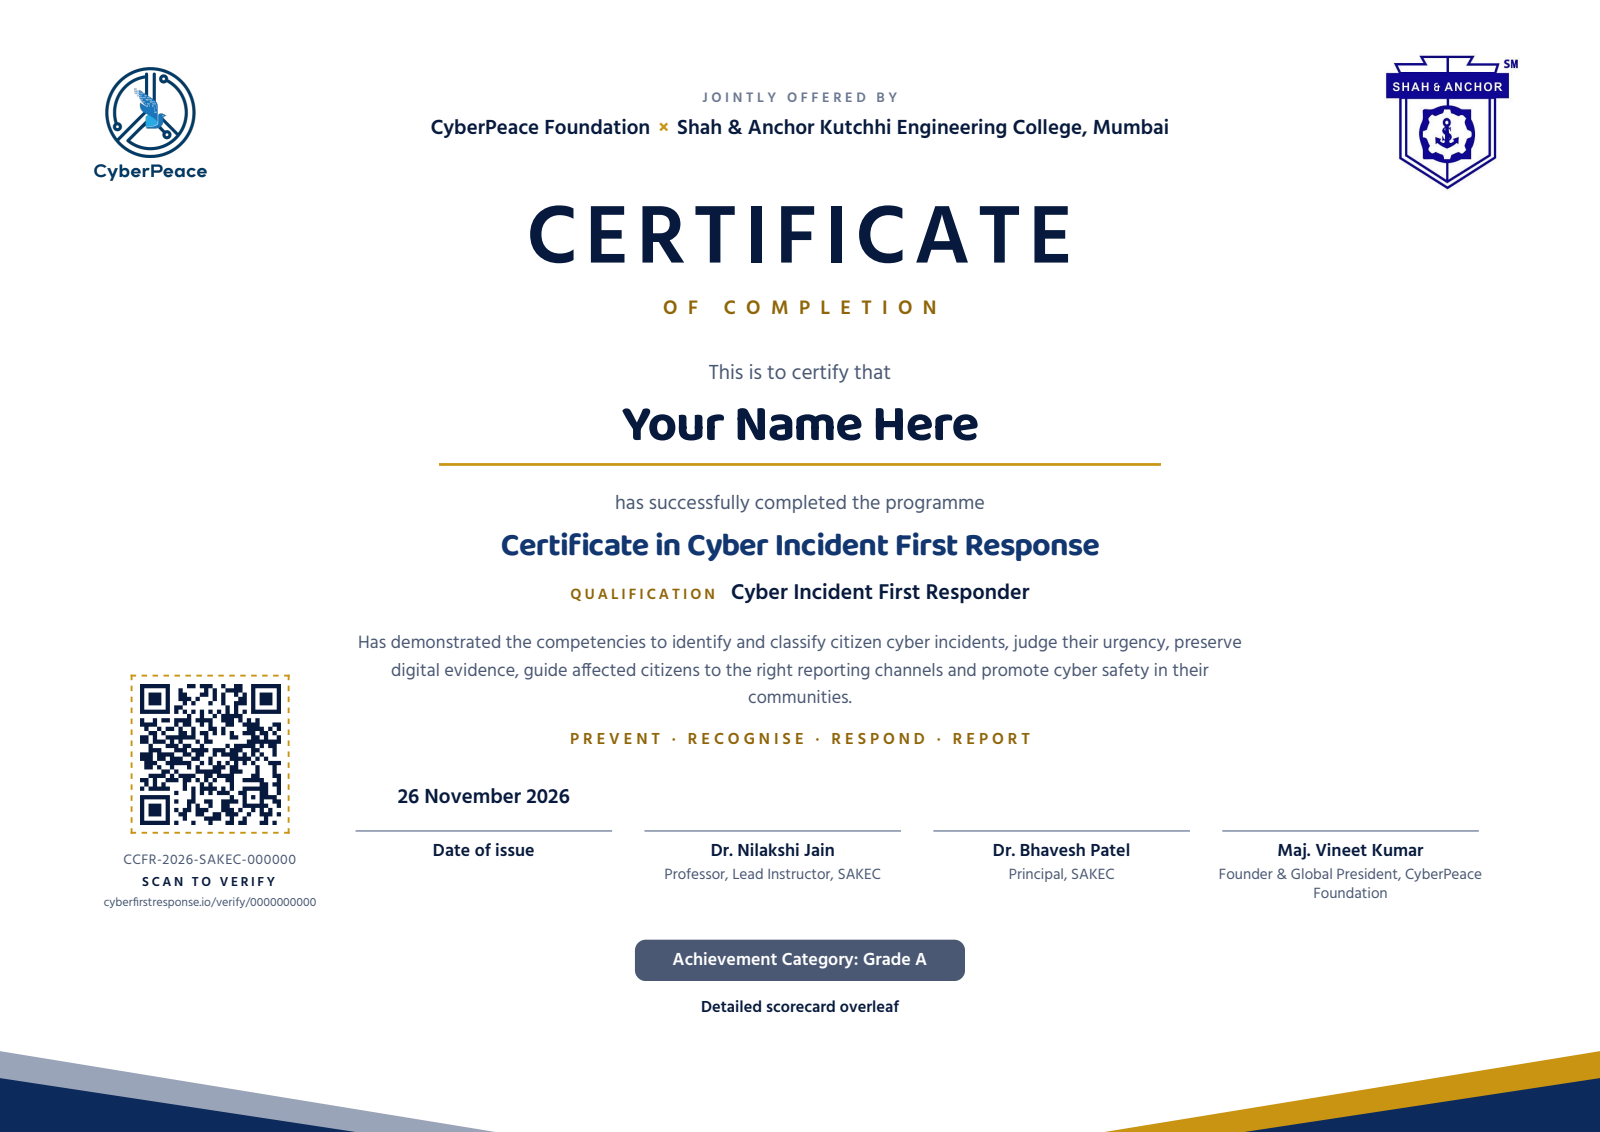
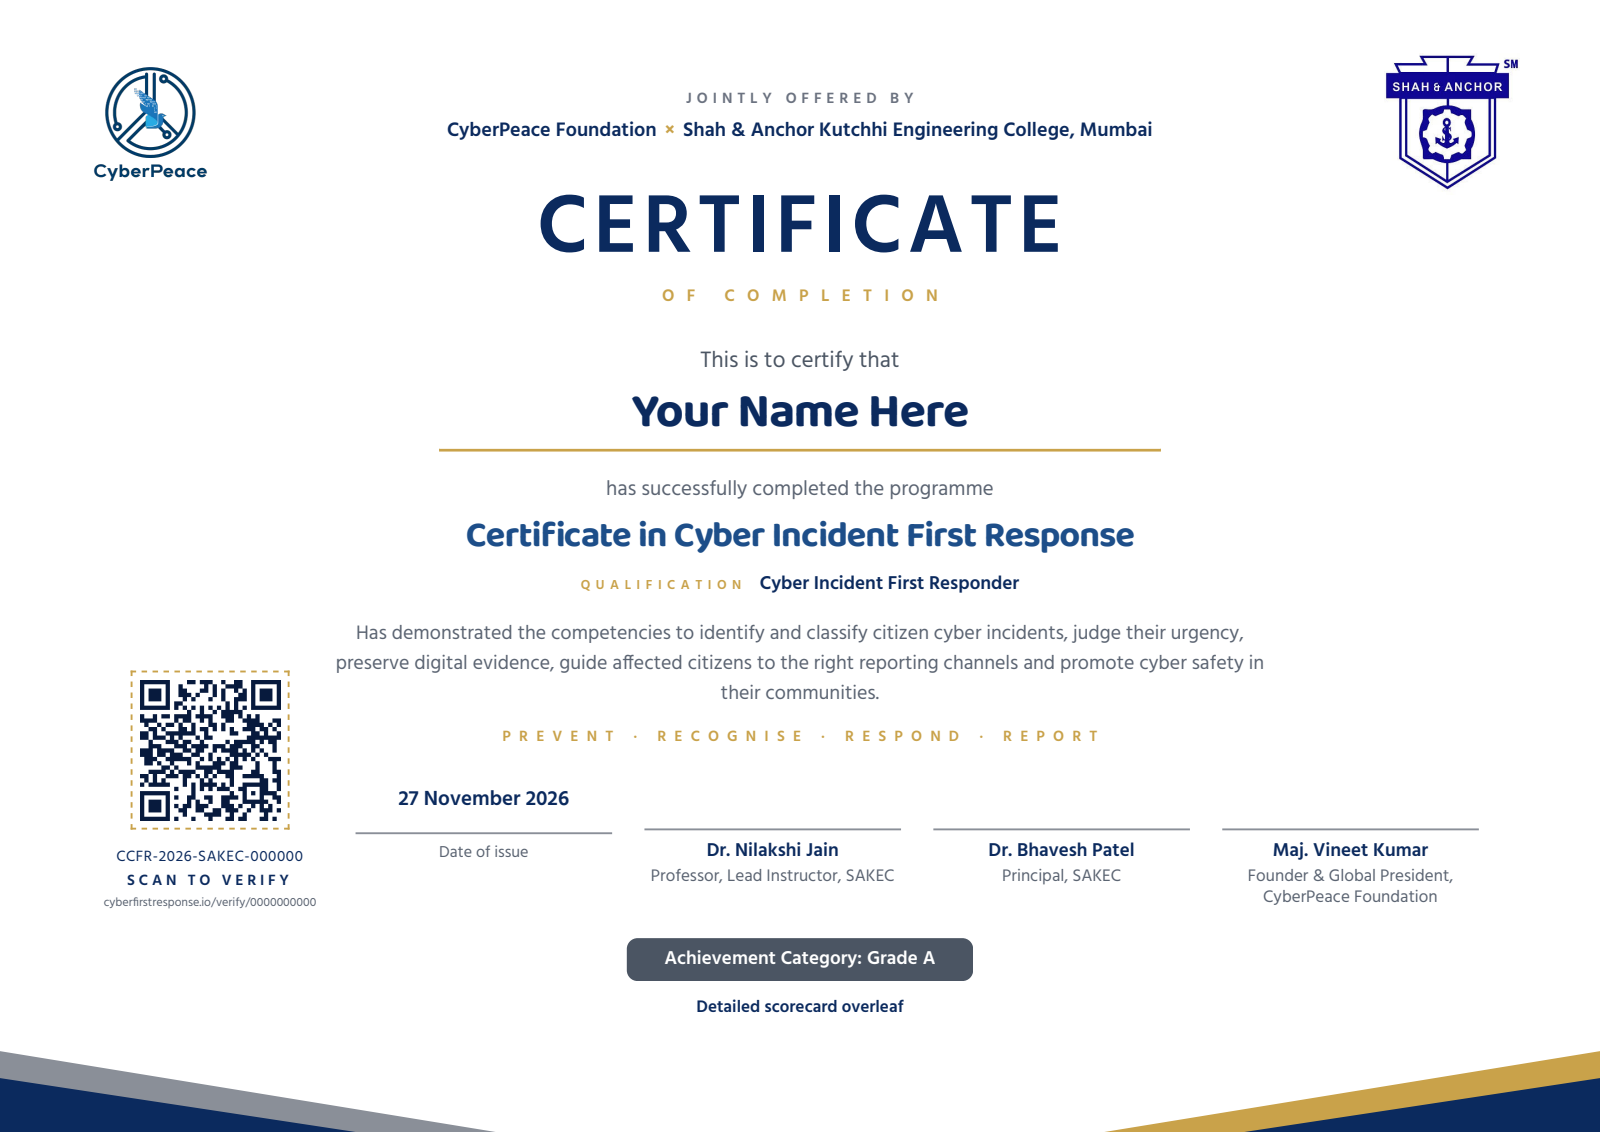
Apply the designer's type and colour spec
From the Canva font sheet: sizes, weights, letter spacing and the
certificate's own palette (navy #0B2A5E, blue #1D4E89, gold #C9A24A, slate
#4B5563, greys #5B6472 and #6B7280). That palette is deliberately not the
site tokens; the certificate is its own artefact.

The two headline sizes are the exception. The spec sets them in Bebas Neue,
which we do not bundle, and Bebas is far narrower than Hind: at the spec's
84pt the word would run off the page, so the headline keeps the size that
matches the artwork's printed width.

Growing the body type pushed the scorecard's footnote into the pillars
line at the foot of page 2. Reclaimed the space from the header, the table
padding and the section gaps rather than shrinking the type back.

diff --git a/templates/certificates/pdf/certificate.html b/templates/certificates/pdf/certificate.html
@@ -25,10 +25,12 @@ Rules for whoever edits it:
   @font-face { font-family: "Hind"; src: url("{{ asset }}font/hind-latin-600.woff2"); font-weight: 600; }
   @font-face { font-family: "Hind"; src: url("{{ asset }}font/hind-latin-600.woff2"); font-weight: 700; }
 
-  /* Colours are the site tokens (static/css/tokens.css): navy, mustard, ink-muted, mustard-deep. */
+  /* Colours and sizes are the designer's certificate spec, which is deliberately its own palette
+     and not the site tokens in static/css/tokens.css: navy #0B2A5E, blue #1D4E89, gold #C9A24A,
+     slate #4B5563, grey #5B6472 / #6B7280. */
   @page { size: A4 landscape; margin: 0; }
   html, body { margin: 0; padding: 0; }
-  body { font-family: "Hind", sans-serif; color: #071a3d; font-size: 10.5pt; line-height: 1.35; }
+  body { font-family: "Hind", sans-serif; color: #0B2A5E; font-size: 10.5pt; line-height: 1.35; }
   p { margin: 0; }
   .sheet { position: relative; width: 297mm; height: 210mm; overflow: hidden; background: #fff; }
   .display { font-family: "Baloo 2", sans-serif; }
@@ -38,75 +40,81 @@ Rules for whoever edits it:
   .jointly img { position: absolute; top: 0; height: 26mm; width: auto; }
   .jointly .l { left: 0; }
   .jointly .r { right: 0; }
-  .jointly .by { margin-top: 6.5mm; color: #6b7890; font-size: 7.4pt; font-weight: 600; letter-spacing: .26em; padding-left: .26em; }
-  .jointly .who { margin-top: 1.2mm; font-size: 11pt; font-weight: 700; }
-  .jointly .who .x { color: #c99412; margin: 0 1.5mm; }
+  .jointly .by { margin-top: 6.5mm; color: #6B7280; font-size: 8pt; font-weight: 700; letter-spacing: .325em; padding-left: .325em; }
+  .jointly .who { margin-top: 1.4mm; font-size: 10.5pt; font-weight: 700; }
+  .jointly .who .x { color: #C9A24A; margin: 0 1.5mm; }
 
-  .c-main { position: absolute; top: 37mm; left: 20mm; right: 20mm; text-align: center; }
-  .c-main h1 { margin: 0; font-size: 44pt; font-weight: 700; letter-spacing: .09em; line-height: 1; padding-left: .09em; }
-  .c-main .of { margin-top: 2.2mm; color: #8f6508; font-size: 10.5pt; font-weight: 600; letter-spacing: .52em; padding-left: .52em; }
-  .c-main .certify { margin-top: 7mm; color: #4a5873; font-size: 11pt; }
+  .c-main { position: absolute; top: 35mm; left: 20mm; right: 20mm; text-align: center; }
+  /* The spec sets this at 84pt in Bebas Neue. Bebas is far narrower than Hind, so at 84pt here the
+     word would run off the page: this is the size that matches the artwork's printed width. */
+  .c-main h1 { margin: 0; font-size: 44pt; font-weight: 700; letter-spacing: .065em; line-height: 1; padding-left: .065em; }
+  .c-main .of { margin-top: 2.4mm; color: #C9A24A; font-size: 9pt; font-weight: 700; letter-spacing: .722em; padding-left: .722em; }
+  .c-main .certify { margin-top: 7mm; color: #4B5563; font-size: 12pt; }
   .c-main .name { display: inline-block; margin-top: 1.5mm; padding: 0 8mm 1.5mm; min-width: 118mm;
-                  font-size: 27pt; font-weight: 700; line-height: 1.15; border-bottom: .5mm solid #c99412; }
-  .c-main .name--long { font-size: 19pt; }
-  .c-main .lead { margin-top: 4.5mm; color: #4a5873; font-size: 10.5pt; }
-  .c-main .title { margin-top: 2mm; color: #12366f; font-size: 17pt; font-weight: 700; line-height: 1.15; }
-  .c-main .qual { margin-top: 2.6mm; font-size: 11.5pt; font-weight: 700; }
-  .c-main .qual .label { color: #8f6508; font-size: 8pt; font-weight: 600; letter-spacing: .2em; margin-right: 2.4mm; }
-  .c-main .about { margin: 4mm auto 0; max-width: 168mm; color: #4a5873; font-size: 9.6pt; line-height: 1.5; }
-  .c-main .pillars { margin-top: 3mm; color: #8f6508; font-size: 8.6pt; font-weight: 600; letter-spacing: .24em; padding-left: .24em; }
+                  font-size: 25.5pt; font-weight: 700; line-height: 1.15; border-bottom: .5mm solid #C9A24A; }
+  .c-main .name--long { font-size: 18pt; }
+  .c-main .lead { margin-top: 4.5mm; color: #5B6472; font-size: 11pt; }
+  .c-main .title { margin-top: 2mm; color: #1D4E89; font-size: 19pt; font-weight: 700; line-height: 1.15; }
+  .c-main .qual { margin-top: 2.8mm; font-size: 10pt; font-weight: 700; }
+  .c-main .qual .label { color: #C9A24A; font-size: 7pt; font-weight: 700; letter-spacing: .414em; margin-right: 2.4mm; }
+  .c-main .about { margin: 4mm auto 0; max-width: 176mm; color: #5B6472; font-size: 10.5pt; line-height: 1.5; }
+  .c-main .pillars { margin-top: 3.4mm; color: #C9A24A; font-size: 8pt; font-weight: 700; letter-spacing: .5375em; padding-left: .5375em; }
 
   .c-verify { position: absolute; left: 18mm; bottom: 41mm; width: 42mm; text-align: center; }
-  .c-verify img { width: 26mm; height: 26mm; padding: 1.4mm; border: .35mm dashed #c99412; }
-  .c-verify .cid { margin-top: 1.6mm; color: #4a5873; font-size: 7.4pt; letter-spacing: .04em; }
-  .c-verify .lbl { margin-top: .7mm; font-size: 7pt; font-weight: 700; letter-spacing: .2em; }
+  .c-verify img { width: 26mm; height: 26mm; padding: 1.4mm; border: .35mm dashed #C9A24A; }
+  .c-verify .cid { margin-top: 1.6mm; font-size: 8pt; letter-spacing: .04em; }
+  .c-verify .lbl { margin-top: .7mm; font-size: 8pt; font-weight: 700; letter-spacing: .25em; }
   /* The verify code, not just the certificate number: a number never normalises to a code
      (apps/certificates/codes.py), so without this line the page can only be verified by scanning. */
-  .c-verify .url { margin-top: .8mm; color: #4a5873; font-size: 6.4pt; line-height: 1.25; overflow-wrap: anywhere; }
+  .c-verify .url { margin-top: .8mm; color: #5B6472; font-size: 6.4pt; line-height: 1.25; overflow-wrap: anywhere; }
 
   .c-bottom { position: absolute; left: 63mm; right: 16mm; bottom: 41mm; }
   .c-col { display: inline-block; vertical-align: bottom; width: 24.6%; text-align: center; }
   .c-col .ink { height: 12mm; }
   .c-col .ink img { max-height: 12mm; max-width: 40mm; }
   .c-col .issued { height: 12mm; font-size: 11pt; font-weight: 700; line-height: 12mm; }
-  .c-col .rule { margin: 0 3mm; border-top: .35mm solid #9aa4b8; }
-  .c-col .who { margin-top: 1.4mm; font-size: 9.4pt; font-weight: 700; }
+  .c-col .rule { margin: 0 3mm; border-top: .35mm solid #8A8F98; }
+  .c-col .who { margin-top: 1.4mm; font-size: 10pt; font-weight: 700; }
+  .c-col .who--date { font-size: 8.5pt; font-weight: 400; color: #5B6472; }
   /* Fixed height so a role that wraps to two lines (Kumar's) keeps every column the same height:
      the columns are bottom-aligned, so an uneven one would lift its own signature rule. */
-  .c-col .role { margin-top: .4mm; height: 8.4mm; color: #4a5873; font-size: 8pt; line-height: 1.25; }
+  .c-col .role { margin-top: .4mm; height: 8.4mm; color: #5B6472; font-size: 9pt; line-height: 1.25; }
 
   .cat-pill { position: absolute; left: 0; right: 0; bottom: 28mm; text-align: center; }
-  .cat-pill span { display: inline-block; padding: 1.6mm 7mm; border-radius: 2mm; background: #4a5873;
-                   color: #fff; font-size: 9.4pt; font-weight: 700; }
-  .overleaf { position: absolute; left: 0; right: 0; bottom: 21mm; text-align: center; font-size: 8.6pt; font-weight: 700; }
+  .cat-pill span { display: inline-block; padding: 1.6mm 7mm; border-radius: 2mm; background: #4B5563;
+                   color: #fff; font-size: 10pt; font-weight: 700; }
+  .overleaf { position: absolute; left: 0; right: 0; bottom: 21mm; text-align: center; font-size: 9pt; font-weight: 700; }
   .band { position: absolute; left: 0; right: 0; bottom: 0; width: 297mm; height: 18mm; }
 
   /* --- Page 2: the detailed scorecard. Totals only: per-module marks stay off the certificate. */
   .sheet--score { page-break-before: always; }
-  .sc { position: absolute; top: 13mm; left: 18mm; right: 18mm; }
-  .sc-head { position: relative; height: 26mm; text-align: center; }
-  .sc-head img { position: absolute; top: 0; height: 26mm; width: auto; }
+  .sc { position: absolute; top: 10mm; left: 18mm; right: 18mm; }
+  .sc-head { position: relative; height: 24mm; text-align: center; }
+  .sc-head img { position: absolute; top: 0; height: 24mm; width: auto; }
   .sc-head .l { left: 0; }
   .sc-head .r { right: 0; }
-  .sc-head h2 { margin: 4mm 0 0; font-size: 19pt; font-weight: 800; letter-spacing: .12em; padding-left: .12em; }
-  .sc-head .sub { margin-top: .8mm; color: #4a5873; font-size: 9.5pt; }
-  .sc-rule { margin: 1.5mm 0 4mm; border-top: .45mm solid #c99412; }
-  .sc-h3 { margin: 0 0 2mm; color: #12366f; font-size: 8.6pt; font-weight: 700; letter-spacing: .16em; text-transform: uppercase; }
+  /* As with page 1's headline, the spec's 28pt assumes Bebas Neue; this matches its printed width. */
+  .sc-head h2 { margin: 4mm 0 0; font-size: 19pt; font-weight: 800; letter-spacing: .054em; padding-left: .054em; }
+  .sc-head .sub { margin-top: 1mm; color: #4B5563; font-size: 10pt; font-weight: 700; }
+  .sc-rule { margin: 1.5mm 0 4.5mm; border-top: .45mm solid #C9A24A; }
+  .sc-h3 { margin: 0 0 2.4mm; color: #1D4E89; font-size: 13.5pt; font-weight: 700; }
   .sc-cols { position: relative; }
   .sc-main { margin-right: 60mm; }
   .sc-side { position: absolute; right: 0; top: 0; width: 52mm; text-align: center; }
-  .sc-side img { width: 31mm; height: 31mm; padding: 1.5mm; border: .35mm solid #c99412; }
+  .sc-side img { width: 31mm; height: 31mm; padding: 1.5mm; border: .35mm solid #C9A24A; }
   .sc-side .cid { margin-top: 1.6mm; font-size: 8pt; font-weight: 700; }
-  .sc-side .lbl { margin-top: .6mm; color: #4a5873; font-size: 6.8pt; font-weight: 600; letter-spacing: .18em; }
-  table.sc-t { width: 100%; border-collapse: collapse; font-size: 9.5pt; }
-  table.sc-t th, table.sc-t td { border: .3mm solid #d7deea; padding: 1.75mm 3mm; text-align: left; }
-  table.sc-t th { width: 42%; background: #eef2f8; font-weight: 600; }
-  .sc-marks { margin-top: 5mm; }
+  .sc-side .lbl { margin-top: .7mm; font-size: 8.5pt; font-weight: 700; letter-spacing: .259em; padding-left: .259em; }
+  table.sc-t { width: 100%; border-collapse: collapse; font-size: 10pt; }
+  table.sc-t th, table.sc-t td { border: .3mm solid #d7deea; padding: 1.4mm 3mm; text-align: left; }
+  table.sc-t th { width: 42%; background: #eef2f8; font-weight: 700; }
+  table.sc-t td { color: #1F2937; font-weight: 400; }
+  table.sc-t td.cat-val { color: #C9A24A; font-weight: 700; }
+  .sc-marks { margin-top: 4mm; }
   table.sc-m { width: 100%; border-collapse: collapse; }
-  table.sc-m th { padding: 2.4mm; background: #071a3d; color: #fff; font-size: 9pt; font-weight: 600; letter-spacing: .08em; }
-  table.sc-m td { padding: 3.4mm; border: .3mm solid #d7deea; background: #eef2f8; text-align: center; font-size: 17pt; font-weight: 700; }
-  .sc-note { margin-top: 4mm; color: #4a5873; font-size: 8pt; line-height: 1.5; }
-  .sc-foot { position: absolute; left: 20mm; right: 20mm; bottom: 23mm; text-align: center; color: #8f6508; font-size: 8pt; font-weight: 600; letter-spacing: .22em; }
+  table.sc-m th { padding: 2.4mm; background: #0B2A5E; color: #fff; font-size: 10pt; font-weight: 700; letter-spacing: .06em; }
+  table.sc-m td { padding: 3.4mm; border: .3mm solid #d7deea; background: #eef2f8; text-align: center; font-size: 16.5pt; font-weight: 700; }
+  .sc-note { margin-top: 3.5mm; color: #6B7280; font-size: 9pt; line-height: 1.45; }
+  .sc-foot { position: absolute; left: 20mm; right: 20mm; bottom: 23mm; text-align: center; color: #C9A24A; font-size: 8.5pt; font-weight: 700; letter-spacing: .41em; padding-left: .41em; }
 </style>
 </head>
 <body>
@@ -143,7 +151,7 @@ Rules for whoever edits it:
   <div class="c-bottom"><div class="c-col">
       <div class="issued">{{ issued_on }}</div>
       <div class="rule"></div>
-      <p class="who">Date of issue</p>
+      <p class="who who--date">Date of issue</p>
       <p class="role"></p>
     </div>{% for sig in signatories %}<div class="c-col">
       <div class="ink">{% if sig.asset %}<img src="{{ asset }}{{ sig.asset }}" alt="Signature of {{ sig.name }}">{% endif %}</div>
@@ -155,10 +163,10 @@ Rules for whoever edits it:
   <div class="cat-pill"><span>Achievement Category: Grade {{ s.grade }}</span></div>
   <p class="overleaf">Detailed scorecard overleaf</p>
   <svg class="band" viewBox="0 0 297 18" preserveAspectRatio="none">
-    <polygon points="0,18 92,18 0,3" fill="#9aa4b8"/>
-    <polygon points="0,18 66,18 0,8" fill="#0d2a5c"/>
-    <polygon points="297,18 205,18 297,3" fill="#c99412"/>
-    <polygon points="297,18 231,18 297,8" fill="#0d2a5c"/>
+    <polygon points="0,18 92,18 0,3" fill="#8A8F98"/>
+    <polygon points="0,18 66,18 0,8" fill="#0B2A5E"/>
+    <polygon points="297,18 205,18 297,3" fill="#C9A24A"/>
+    <polygon points="297,18 231,18 297,8" fill="#0B2A5E"/>
   </svg>
 </div>
 
@@ -174,7 +182,7 @@ Rules for whoever edits it:
 
     <div class="sc-cols">
       <div class="sc-main">
-        <p class="sc-h3">Certificate details</p>
+        <p class="sc-h3">Certificate Details</p>
         <table class="sc-t">
           <tr><th>Candidate name</th><td>{{ s.certificate_name }}</td></tr>
           <tr><th>Programme</th><td>{{ s.programme_title }}</td></tr>
@@ -184,7 +192,7 @@ Rules for whoever edits it:
           <tr><th>Completion date</th><td>{{ completed_on }}</td></tr>
           <tr><th>Date of issue</th><td>{{ issued_on }}</td></tr>
           <tr><th>Certificate no.</th><td>{{ certificate_no }}</td></tr>
-          <tr><th>Achievement category</th><td><strong>Grade {{ s.grade }}</strong></td></tr>
+          <tr><th>Achievement category</th><td class="cat-val">Grade {{ s.grade }}</td></tr>
         </table>
       </div>
       <div class="sc-side">
@@ -196,7 +204,7 @@ Rules for whoever edits it:
 
     {% if s.overall %}
       <div class="sc-marks">
-        <p class="sc-h3">Final assessment marks</p>
+        <p class="sc-h3">Final Assessment Marks</p>
         <table class="sc-m">
           <tr><th>Maximum marks</th><th>Marks obtained</th><th>Percentage</th></tr>
           <tr><td>100</td><td>{{ s.overall }}</td><td>{{ s.overall }}%</td></tr>
@@ -209,10 +217,10 @@ Rules for whoever edits it:
   </div>
   <div class="sc-foot">PREVENT &#183; RECOGNISE &#183; RESPOND &#183; REPORT</div>
   <svg class="band" viewBox="0 0 297 18" preserveAspectRatio="none">
-    <polygon points="0,18 92,18 0,3" fill="#9aa4b8"/>
-    <polygon points="0,18 66,18 0,8" fill="#0d2a5c"/>
-    <polygon points="297,18 205,18 297,3" fill="#c99412"/>
-    <polygon points="297,18 231,18 297,8" fill="#0d2a5c"/>
+    <polygon points="0,18 92,18 0,3" fill="#8A8F98"/>
+    <polygon points="0,18 66,18 0,8" fill="#0B2A5E"/>
+    <polygon points="297,18 205,18 297,3" fill="#C9A24A"/>
+    <polygon points="297,18 231,18 297,8" fill="#0B2A5E"/>
   </svg>
 </div>
 </body>

diff --git a/CHANGELOG.md b/CHANGELOG.md
@@ -9,7 +9,8 @@
 - **Maj. Vineet Kumar is "Founder & Global President"**, per the artwork. Signatory order stays Jain · Patel · Kumar (D36); the artwork's Patel-first order was not adopted.
 - **The verify code is still printed under the QR.** The artwork shows only a certificate ID, but a certificate number never normalises to a verify code (`apps/certificates/codes.py`), so printing the number alone would have left the page verifiable by scanning only. The code line is kept, small, under "Scan to verify".
 - **This amends D36 further:** the prescribed "has successfully completed … conducted by the Department of Cyber Security …" sentence is replaced by the artwork's competency statement, and the Batch / Completed on / Certificate No. line leaves page 1 (all three remain on the scorecard).
-- Known gap against the artwork: the wordmark is set in Hind, not the artwork's condensed grotesque, which is not among the bundled fonts. Closing it needs that font file added to `static/fonts/` and to the renderer's allowlist.
+- **The designer's type and colour spec is applied**: sizes, weights, letter spacing and the certificate's own palette (navy `#0B2A5E`, blue `#1D4E89`, gold `#C9A24A`, slate `#4B5563`, greys `#5B6472` / `#6B7280`). This palette is deliberately not the site tokens in `static/css/tokens.css`; the certificate is its own artefact.
+- Known gap against the artwork: it is set in **Bebas Neue** (headings), **Inter** (everything else) and **Roboto Mono** (certificate IDs), none of which we bundle, so the page uses Hind throughout. The two headline sizes are therefore held at the value that matches the artwork's printed width rather than the spec's point size, because Bebas is far narrower than Hind and 84pt would run off the page. Closing the gap means adding those three `.woff2` files (plus their licences) to `static/fonts/` and to the renderer's `FONTS` allowlist.
 
 ## 2026-11-26: Certificate scorecard page
 
